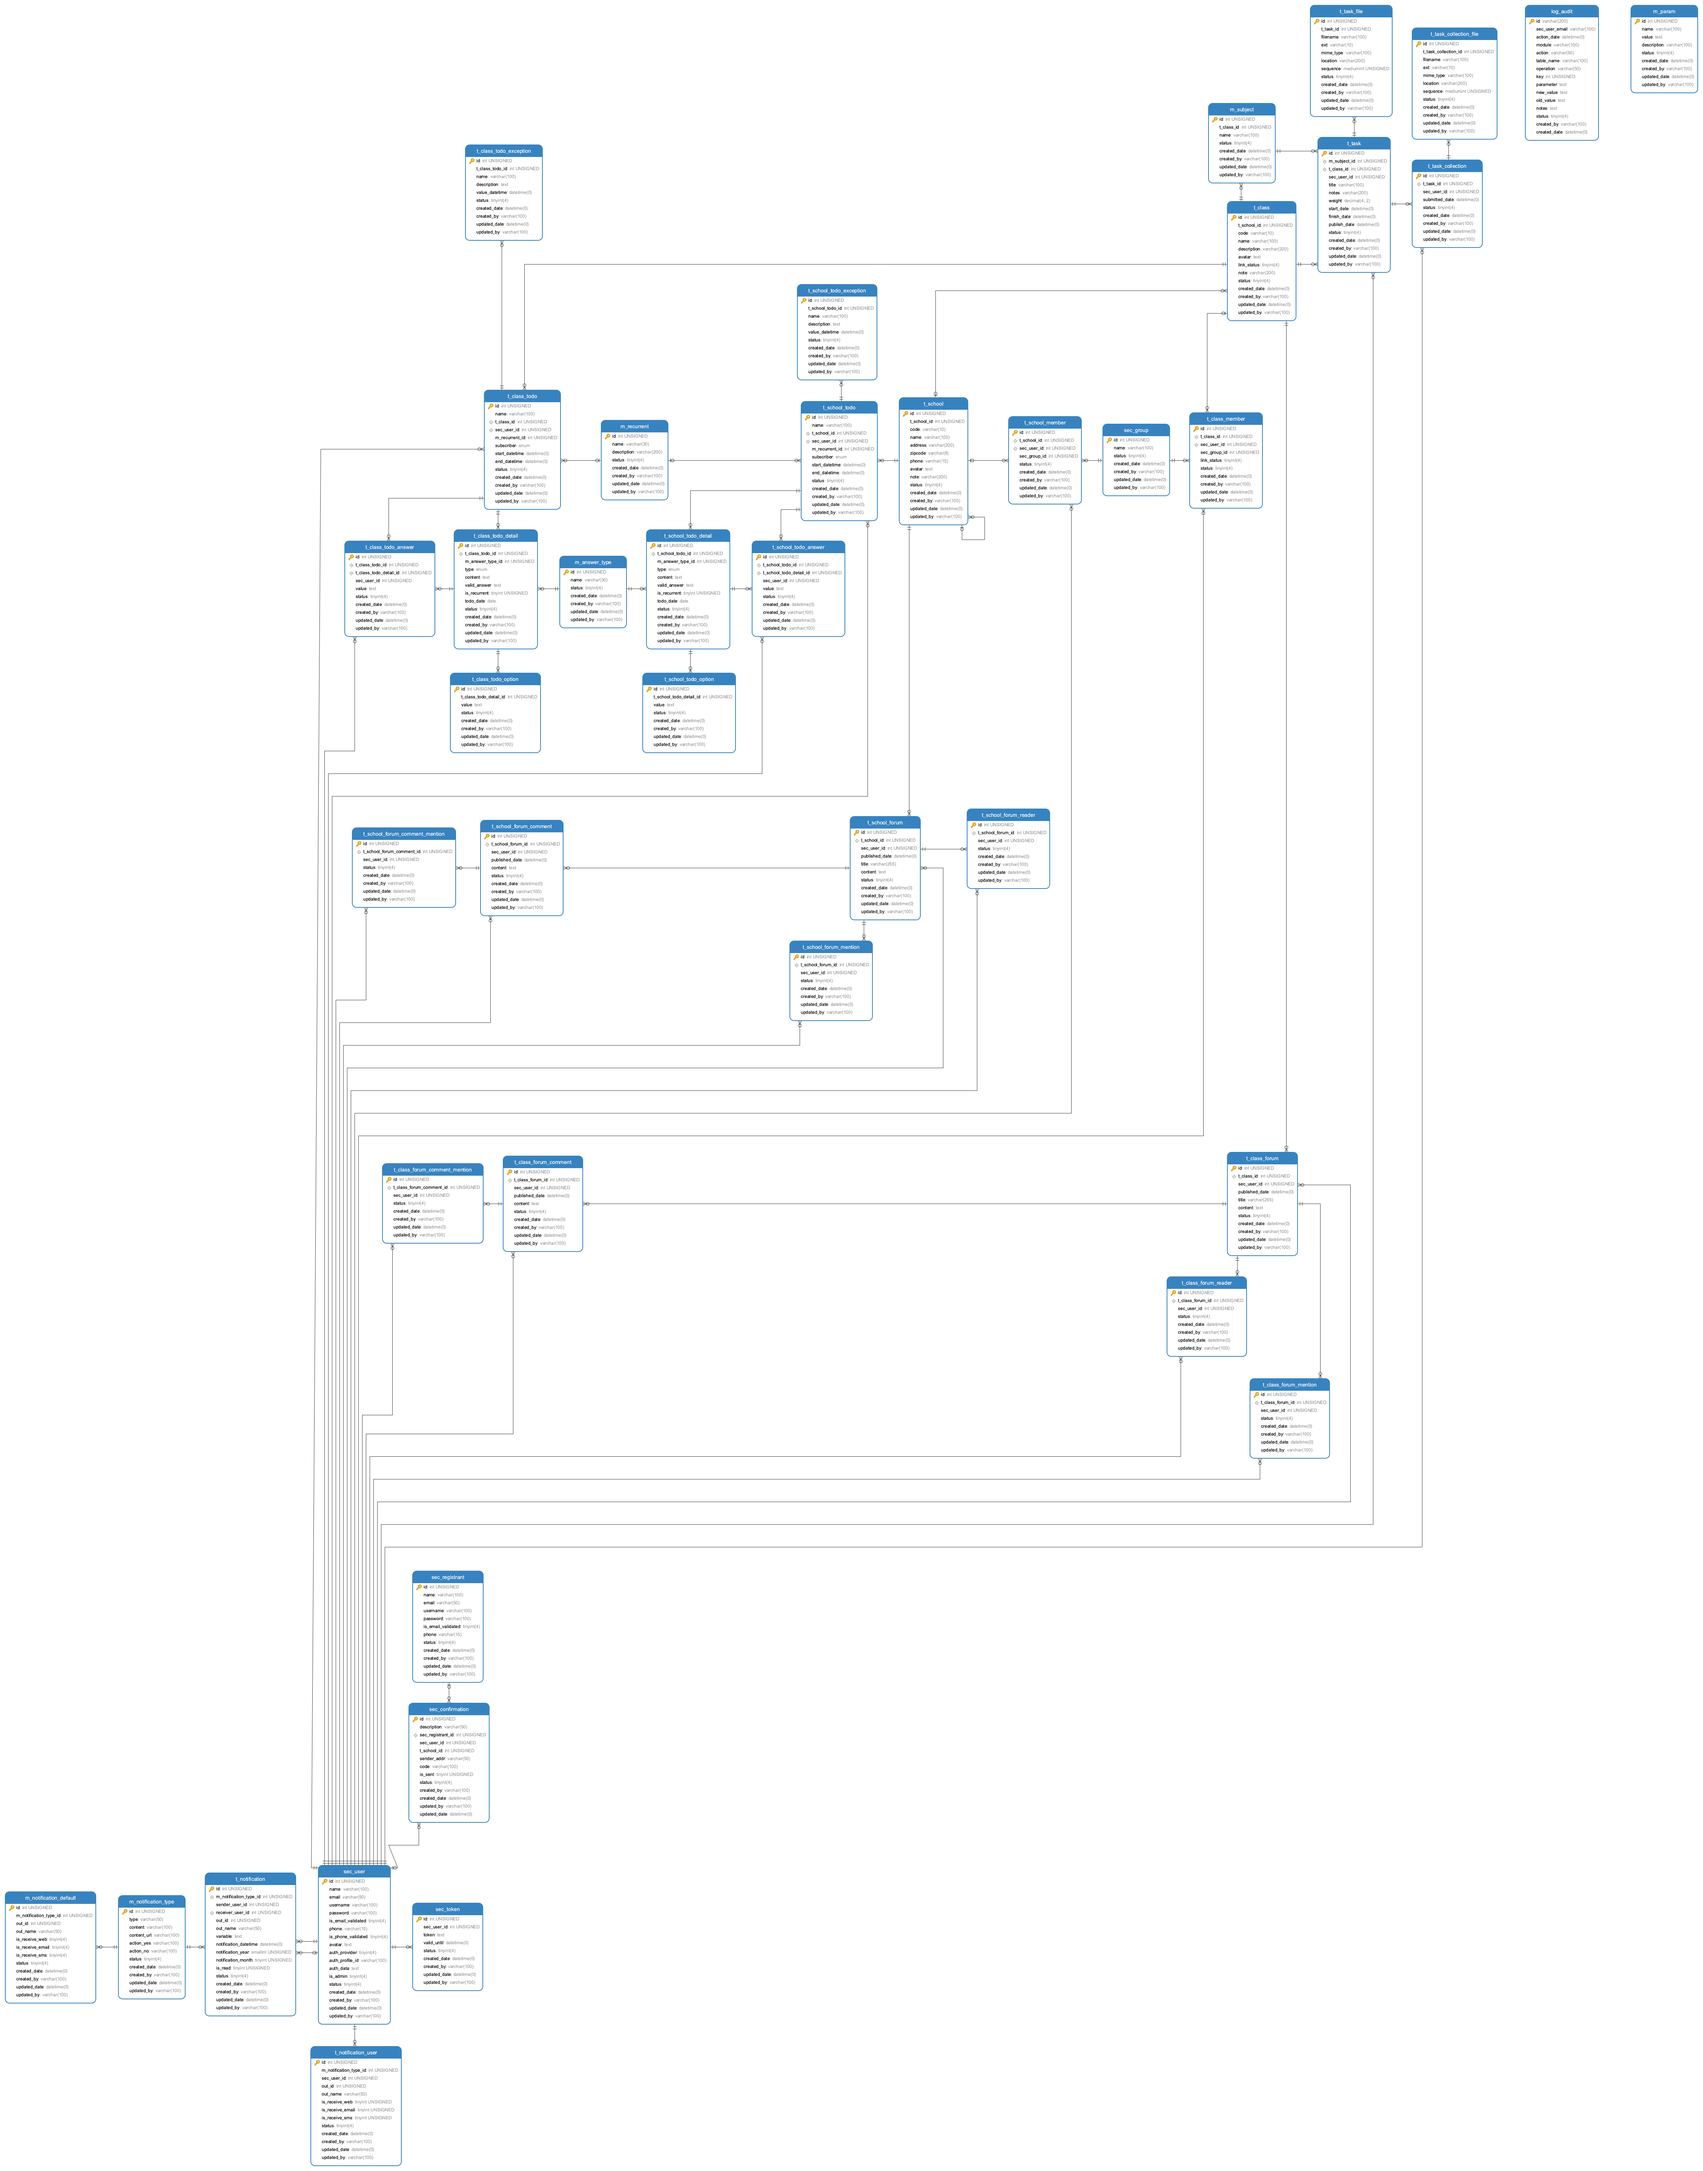
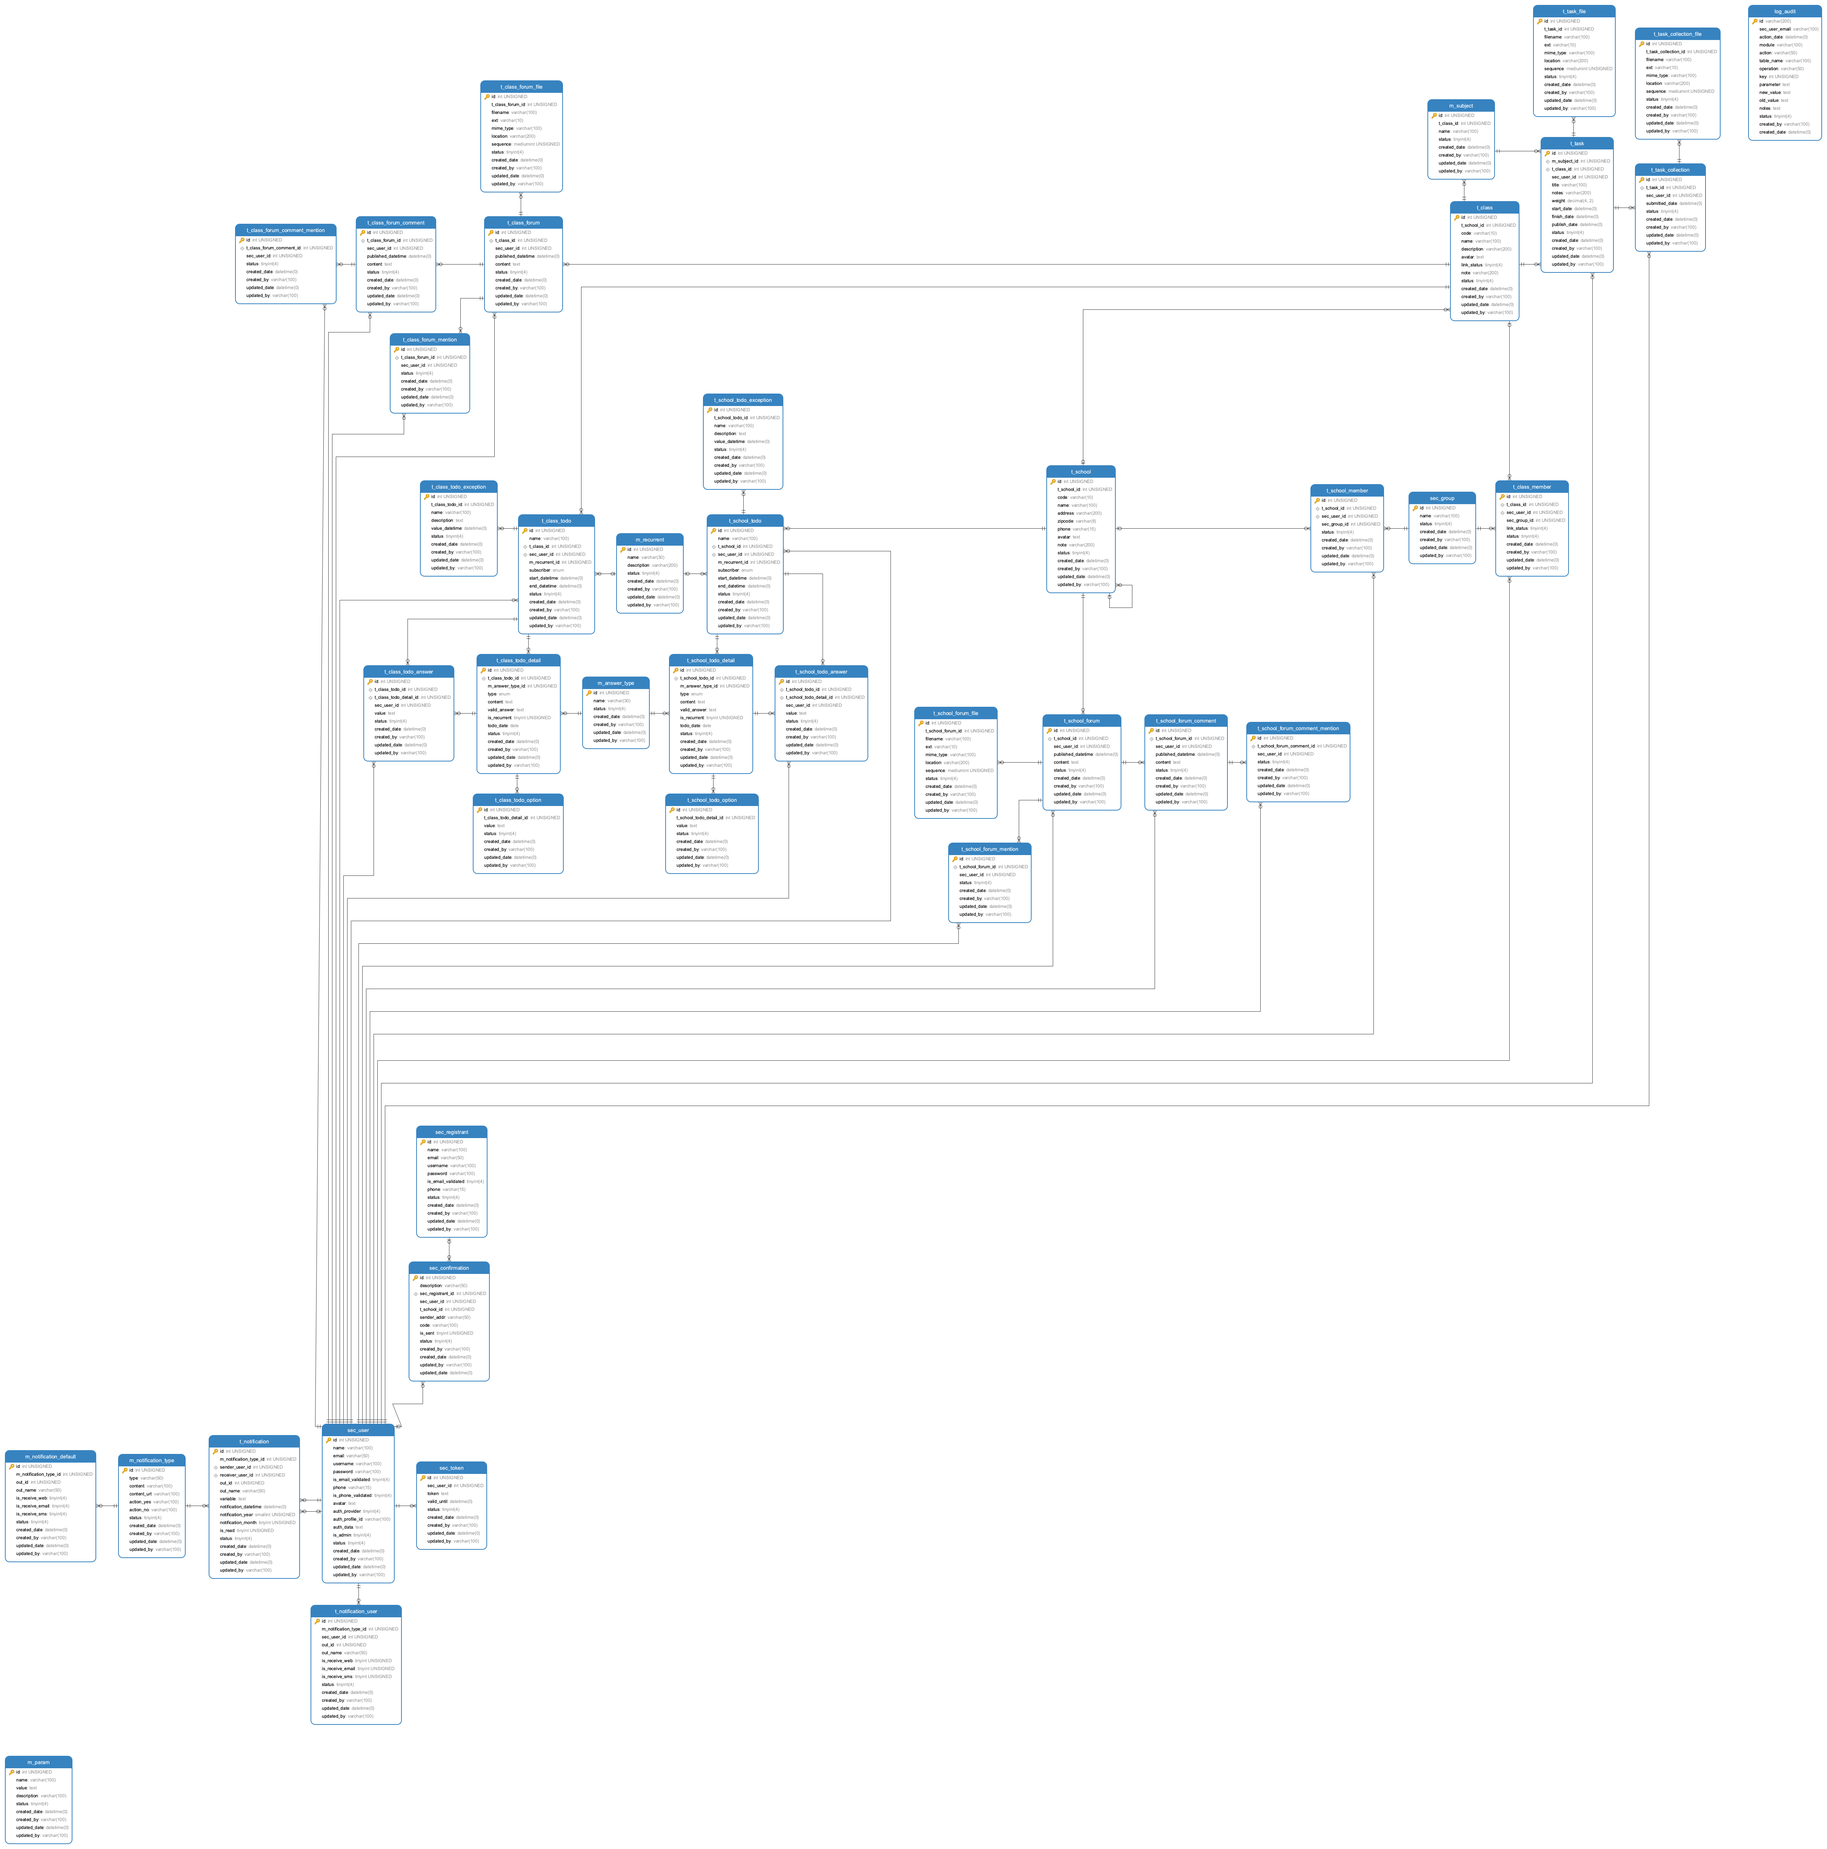
altering sechma for newsfeed/form eeds

diff --git a/models/t_school_forum_file.js b/models/t_school_forum_file.js
@@ -27,18 +27,50 @@ module.exports = sequelize => {
         model: 't_school_forum_model'
       }
     },
-    sec_user_id: {
-      type: DataTypes.INTEGER(11).UNSIGNED,
+    filename: {
+      type: DataTypes.STRING(100),
       allowNull: false,
       defaultValue: null,
       primaryKey: false,
       autoIncrement: false,
       comment: null,
-      field: 'sec_user_id',
-      references: {
-        key: 'id',
-        model: 'sec_user_model'
-      }
+      field: 'filename'
+    },
+    ext: {
+      type: DataTypes.STRING(10),
+      allowNull: true,
+      defaultValue: null,
+      primaryKey: false,
+      autoIncrement: false,
+      comment: null,
+      field: 'ext'
+    },
+    mime_type: {
+      type: DataTypes.STRING(100),
+      allowNull: true,
+      defaultValue: null,
+      primaryKey: false,
+      autoIncrement: false,
+      comment: null,
+      field: 'mime_type'
+    },
+    location: {
+      type: DataTypes.STRING(200),
+      allowNull: true,
+      defaultValue: null,
+      primaryKey: false,
+      autoIncrement: false,
+      comment: null,
+      field: 'location'
+    },
+    sequence: {
+      type: DataTypes.INTEGER(8).UNSIGNED,
+      allowNull: true,
+      defaultValue: '0',
+      primaryKey: false,
+      autoIncrement: false,
+      comment: null,
+      field: 'sequence'
     },
     status: {
       type: DataTypes.INTEGER(4),
@@ -88,7 +120,7 @@ module.exports = sequelize => {
   };
   const options = {
     timestamps: false,
-    tableName: 't_school_forum_reader',
+    tableName: 't_school_forum_file',
     comment: '',
     indexes: [
       {
@@ -96,19 +128,9 @@ module.exports = sequelize => {
         unique: false,
         type: 'BTREE',
         fields: ['t_school_forum_id']
-      },
-      {
-        name: 'sec_user_id',
-        unique: false,
-        type: 'BTREE',
-        fields: ['sec_user_id']
       }
     ]
   };
-  const TSchoolForumReaderModel = sequelize.define(
-    't_school_forum_reader_model',
-    attributes,
-    options
-  );
-  return TSchoolForumReaderModel;
+  const TSchoolForumFileModel = sequelize.define('t_school_forum_file_model', attributes, options);
+  return TSchoolForumFileModel;
 };

diff --git a/models/t_class_forum_file.js b/models/t_class_forum_file.js
@@ -27,18 +27,50 @@ module.exports = sequelize => {
         model: 't_class_forum_model'
       }
     },
-    sec_user_id: {
-      type: DataTypes.INTEGER(11).UNSIGNED,
+    filename: {
+      type: DataTypes.STRING(100),
       allowNull: false,
       defaultValue: null,
       primaryKey: false,
       autoIncrement: false,
       comment: null,
-      field: 'sec_user_id',
-      references: {
-        key: 'id',
-        model: 'sec_user_model'
-      }
+      field: 'filename'
+    },
+    ext: {
+      type: DataTypes.STRING(10),
+      allowNull: true,
+      defaultValue: null,
+      primaryKey: false,
+      autoIncrement: false,
+      comment: null,
+      field: 'ext'
+    },
+    mime_type: {
+      type: DataTypes.STRING(100),
+      allowNull: true,
+      defaultValue: null,
+      primaryKey: false,
+      autoIncrement: false,
+      comment: null,
+      field: 'mime_type'
+    },
+    location: {
+      type: DataTypes.STRING(200),
+      allowNull: true,
+      defaultValue: null,
+      primaryKey: false,
+      autoIncrement: false,
+      comment: null,
+      field: 'location'
+    },
+    sequence: {
+      type: DataTypes.INTEGER(8).UNSIGNED,
+      allowNull: true,
+      defaultValue: '0',
+      primaryKey: false,
+      autoIncrement: false,
+      comment: null,
+      field: 'sequence'
     },
     status: {
       type: DataTypes.INTEGER(4),
@@ -88,7 +120,7 @@ module.exports = sequelize => {
   };
   const options = {
     timestamps: false,
-    tableName: 't_class_forum_reader',
+    tableName: 't_class_forum_file',
     comment: '',
     indexes: [
       {
@@ -96,19 +128,9 @@ module.exports = sequelize => {
         unique: false,
         type: 'BTREE',
         fields: ['t_class_forum_id']
-      },
-      {
-        name: 'sec_user_id',
-        unique: false,
-        type: 'BTREE',
-        fields: ['sec_user_id']
       }
     ]
   };
-  const TClassForumReaderModel = sequelize.define(
-    't_class_forum_reader_model',
-    attributes,
-    options
-  );
-  return TClassForumReaderModel;
+  const TClassForumFileModel = sequelize.define('t_class_forum_file_model', attributes, options);
+  return TClassForumFileModel;
 };

diff --git a/models/t_class_forum.js b/models/t_class_forum.js
@@ -40,23 +40,14 @@ module.exports = sequelize => {
         model: 'sec_user_model'
       }
     },
-    published_date: {
+    published_datetime: {
       type: DataTypes.DATE,
       allowNull: false,
       defaultValue: null,
       primaryKey: false,
       autoIncrement: false,
       comment: null,
-      field: 'published_date'
-    },
-    title: {
-      type: DataTypes.STRING(255),
-      allowNull: false,
-      defaultValue: '',
-      primaryKey: false,
-      autoIncrement: false,
-      comment: null,
-      field: 'title'
+      field: 'published_datetime'
     },
     content: {
       type: DataTypes.TEXT,

diff --git a/models/t_school_forum.js b/models/t_school_forum.js
@@ -40,23 +40,14 @@ module.exports = sequelize => {
         model: 'sec_user_model'
       }
     },
-    published_date: {
+    published_datetime: {
       type: DataTypes.DATE,
       allowNull: false,
       defaultValue: null,
       primaryKey: false,
       autoIncrement: false,
       comment: null,
-      field: 'published_date'
-    },
-    title: {
-      type: DataTypes.STRING(255),
-      allowNull: false,
-      defaultValue: '',
-      primaryKey: false,
-      autoIncrement: false,
-      comment: null,
-      field: 'title'
+      field: 'published_datetime'
     },
     content: {
       type: DataTypes.TEXT,

diff --git a/models/t_class_forum_comment.js b/models/t_class_forum_comment.js
@@ -40,14 +40,14 @@ module.exports = sequelize => {
         model: 'sec_user_model'
       }
     },
-    published_date: {
+    published_datetime: {
       type: DataTypes.DATE,
       allowNull: false,
       defaultValue: null,
       primaryKey: false,
       autoIncrement: false,
       comment: null,
-      field: 'published_date'
+      field: 'published_datetime'
     },
     content: {
       type: DataTypes.TEXT,

diff --git a/models/t_school_forum_comment.js b/models/t_school_forum_comment.js
@@ -40,14 +40,14 @@ module.exports = sequelize => {
         model: 'sec_user_model'
       }
     },
-    published_date: {
+    published_datetime: {
       type: DataTypes.DATE,
       allowNull: false,
       defaultValue: null,
       primaryKey: false,
       autoIncrement: false,
       comment: null,
-      field: 'published_date'
+      field: 'published_datetime'
     },
     content: {
       type: DataTypes.TEXT,
